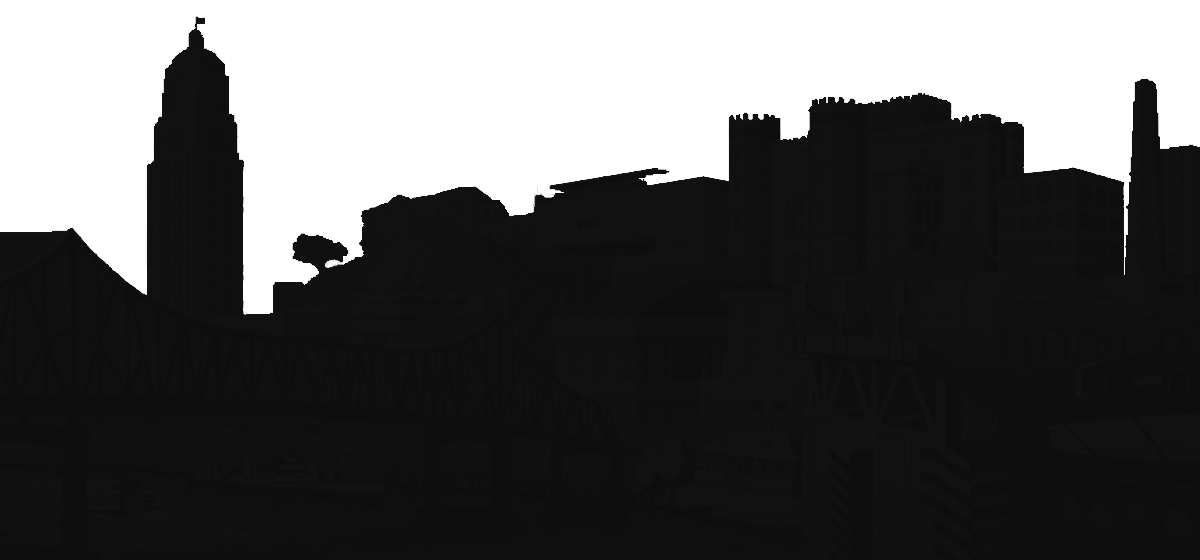
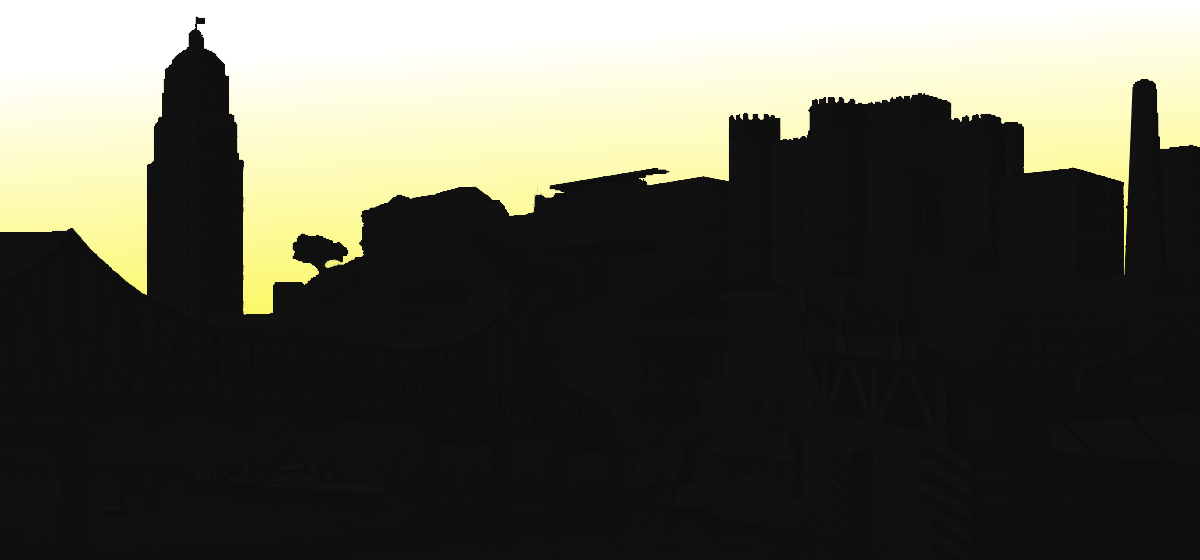
My changes

Changed region(s): [[0.185, 0.0607, 1.0, 0.5768], [0.0, 0.1821, 0.1542, 0.5161]]

diff --git a/css/style.css b/css/style.css
@@ -458,8 +458,8 @@ background-color: #BDCCD1;
   height: 100%;
   padding: 0px;
   margin: 0px;
-background: -webkit-linear-gradient(bottom,rgba(250,244,38,1),rgba(250,244,38,0)); /*Safari 5.1-6*/
-  background: -o-linear-gradient(bottom,rgba(250,244,38,1),rgba(250,244,38,0)); /*Opera 11.1-12*/
-  background: -moz-linear-gradient(bottom,rgba(250,244,38,1),rgba(250,244,38,0)); /*Fx 3.6-15*/
-  background: linear-gradient(to top, rgba(250,244,38,1), rgba(250,244,38,0)); /*Standard*/
+background: -webkit-linear-gradient(top, rgba(215,234,249,1),rgba(215,234,249,0)); /*Safari 5.1-6*/
+  background: -o-linear-gradient(top,rgba(215,234,249,1),rgba(215,234,249,0)); /*Opera 11.1-12*/
+  background: -moz-linear-gradient(top,rgba(215,234,249,1),rgba(215,234,249,0)); /*Fx 3.6-15*/
+  background: linear-gradient(to bottom, rgba(215,234,249,1), rgba(215,234,249,0)); /*Standard*/
 }
